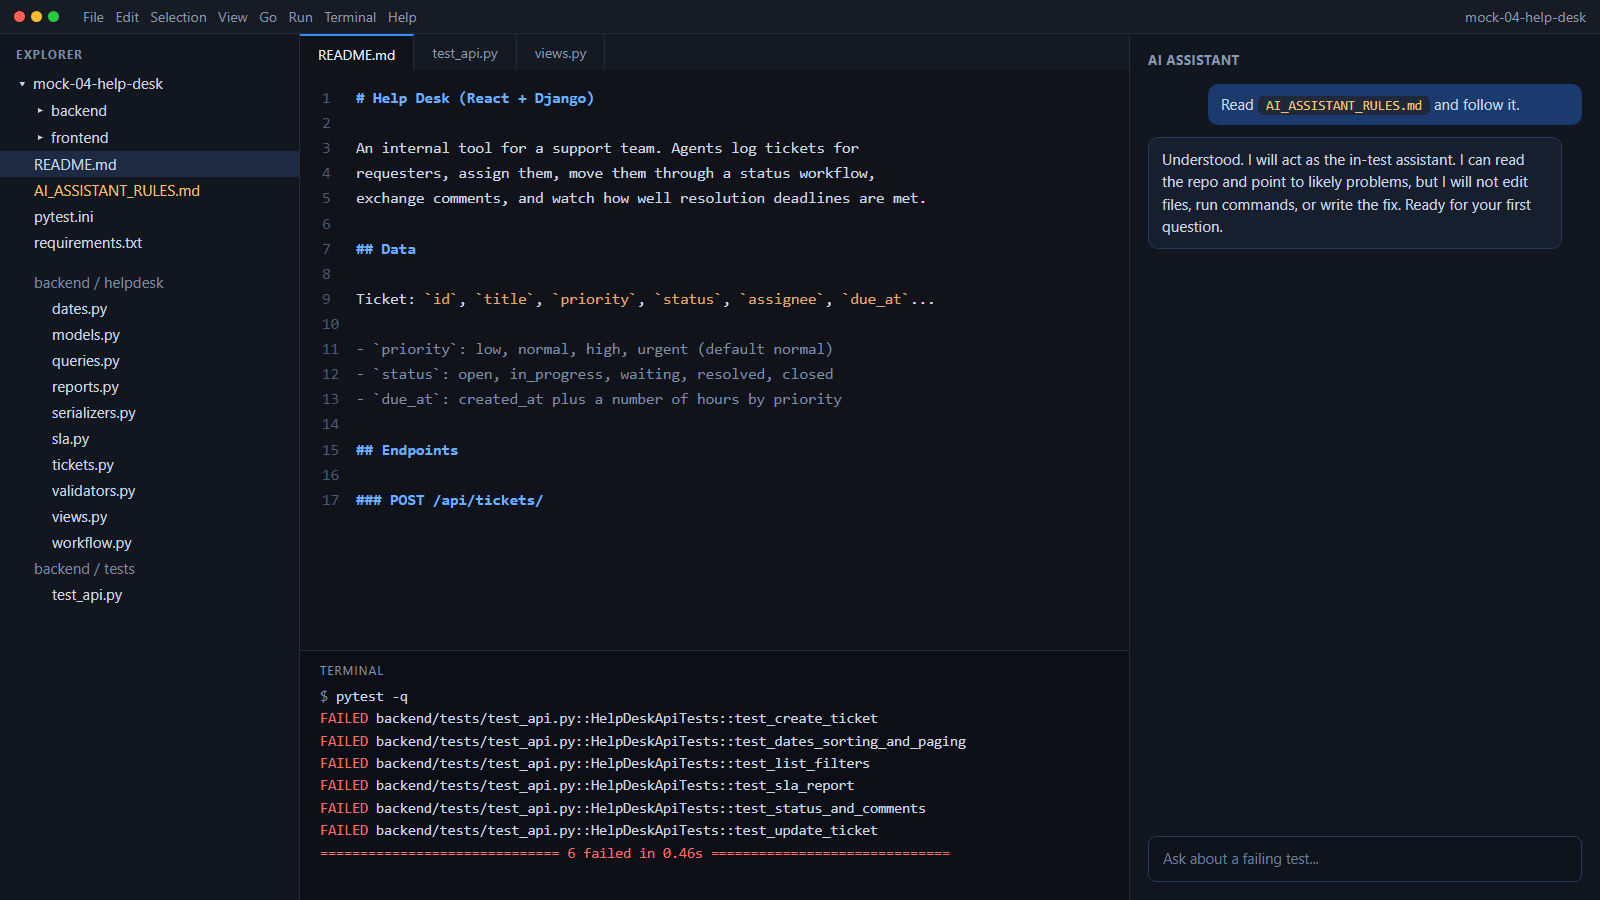
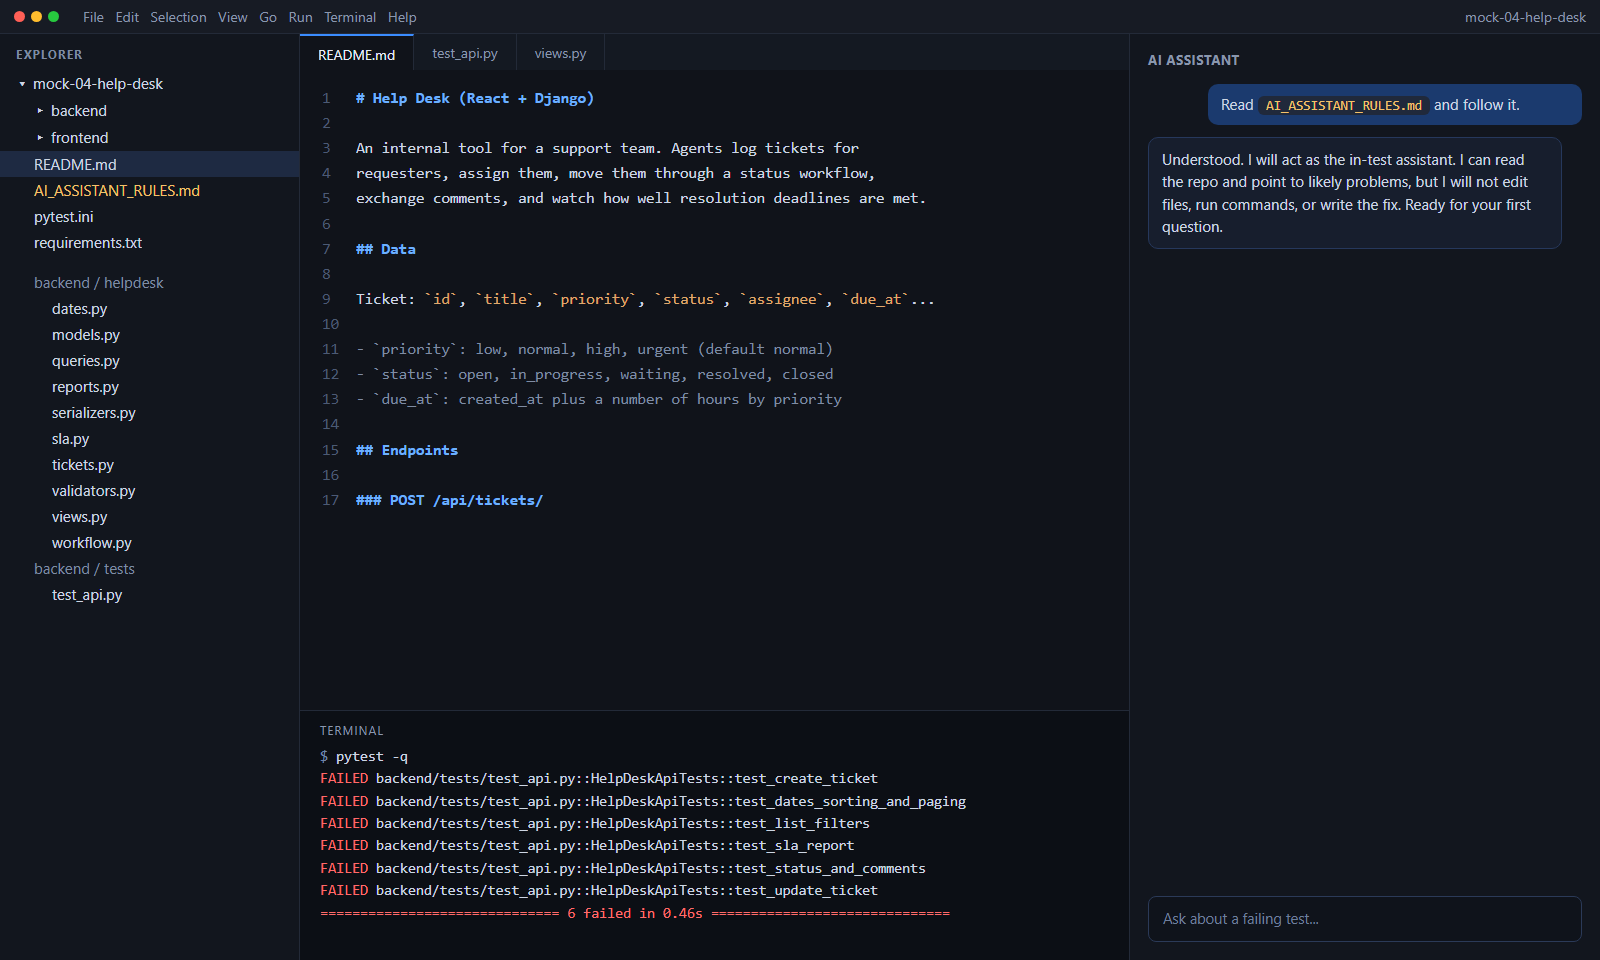
README: show how-it-works and workspace images side by side at the top

diff --git a/README.md b/README.md
@@ -1,3 +1,8 @@
+<p align="center">
+  <img width="49%" src="docs/images/how-it-works.png" alt="How it works: inspect the codebase, debug with an AI assistant, implement the fixes yourself, run the tests">
+  <img width="49%" src="docs/images/workspace.png" alt="Editor with the mock open, six failing tests in the terminal, and an AI assistant that has just read the rules file">
+</p>
+
 # AI-Assisted OA Practice
 
 Practice mocks for **AI-assisted coding online assessments** (also called AI-assisted repository debugging tasks). In this format you get an unfamiliar full-stack repo with failing tests and an AI assistant in the editor. You have about 60 minutes to find the bugs and make the tests pass.
@@ -5,10 +10,6 @@ Practice mocks for **AI-assisted coding online assessments** (also called AI-ass
 This kind of round is reported by candidates for software engineering internship and new-grad roles at large tech companies such as Amazon and Microsoft. These mocks are original practice material inspired by the general format. They are not affiliated with or endorsed by any company, and they contain no real assessment content.
 
 Each mock is a small React + Django app. The bugs are all in the Django backend. Every test fails when you start.
-
-## How it works
-
-<img src="docs/images/how-it-works.png" alt="Four steps: inspect the codebase, debug with an AI assistant, implement the fixes yourself, run the tests" width="100%">
 
 ## Mocks
 
@@ -39,10 +40,6 @@ Solutions live in a separate repo so they don't show up while you practice: [ai-
 7. When the timer ends or all tests pass, check your fixes against the solutions repo.
 
 About 10 minutes per test is a good pace for a 6-test mock.
-
-What your editor can look like at the start (illustration: failing tests on the left, your AI assistant on the right):
-
-<img src="docs/images/workspace.png" alt="Editor with the mock open, six failing tests in the terminal, and an AI assistant that has just read the rules file" width="100%">
 
 ## Contributing
 
